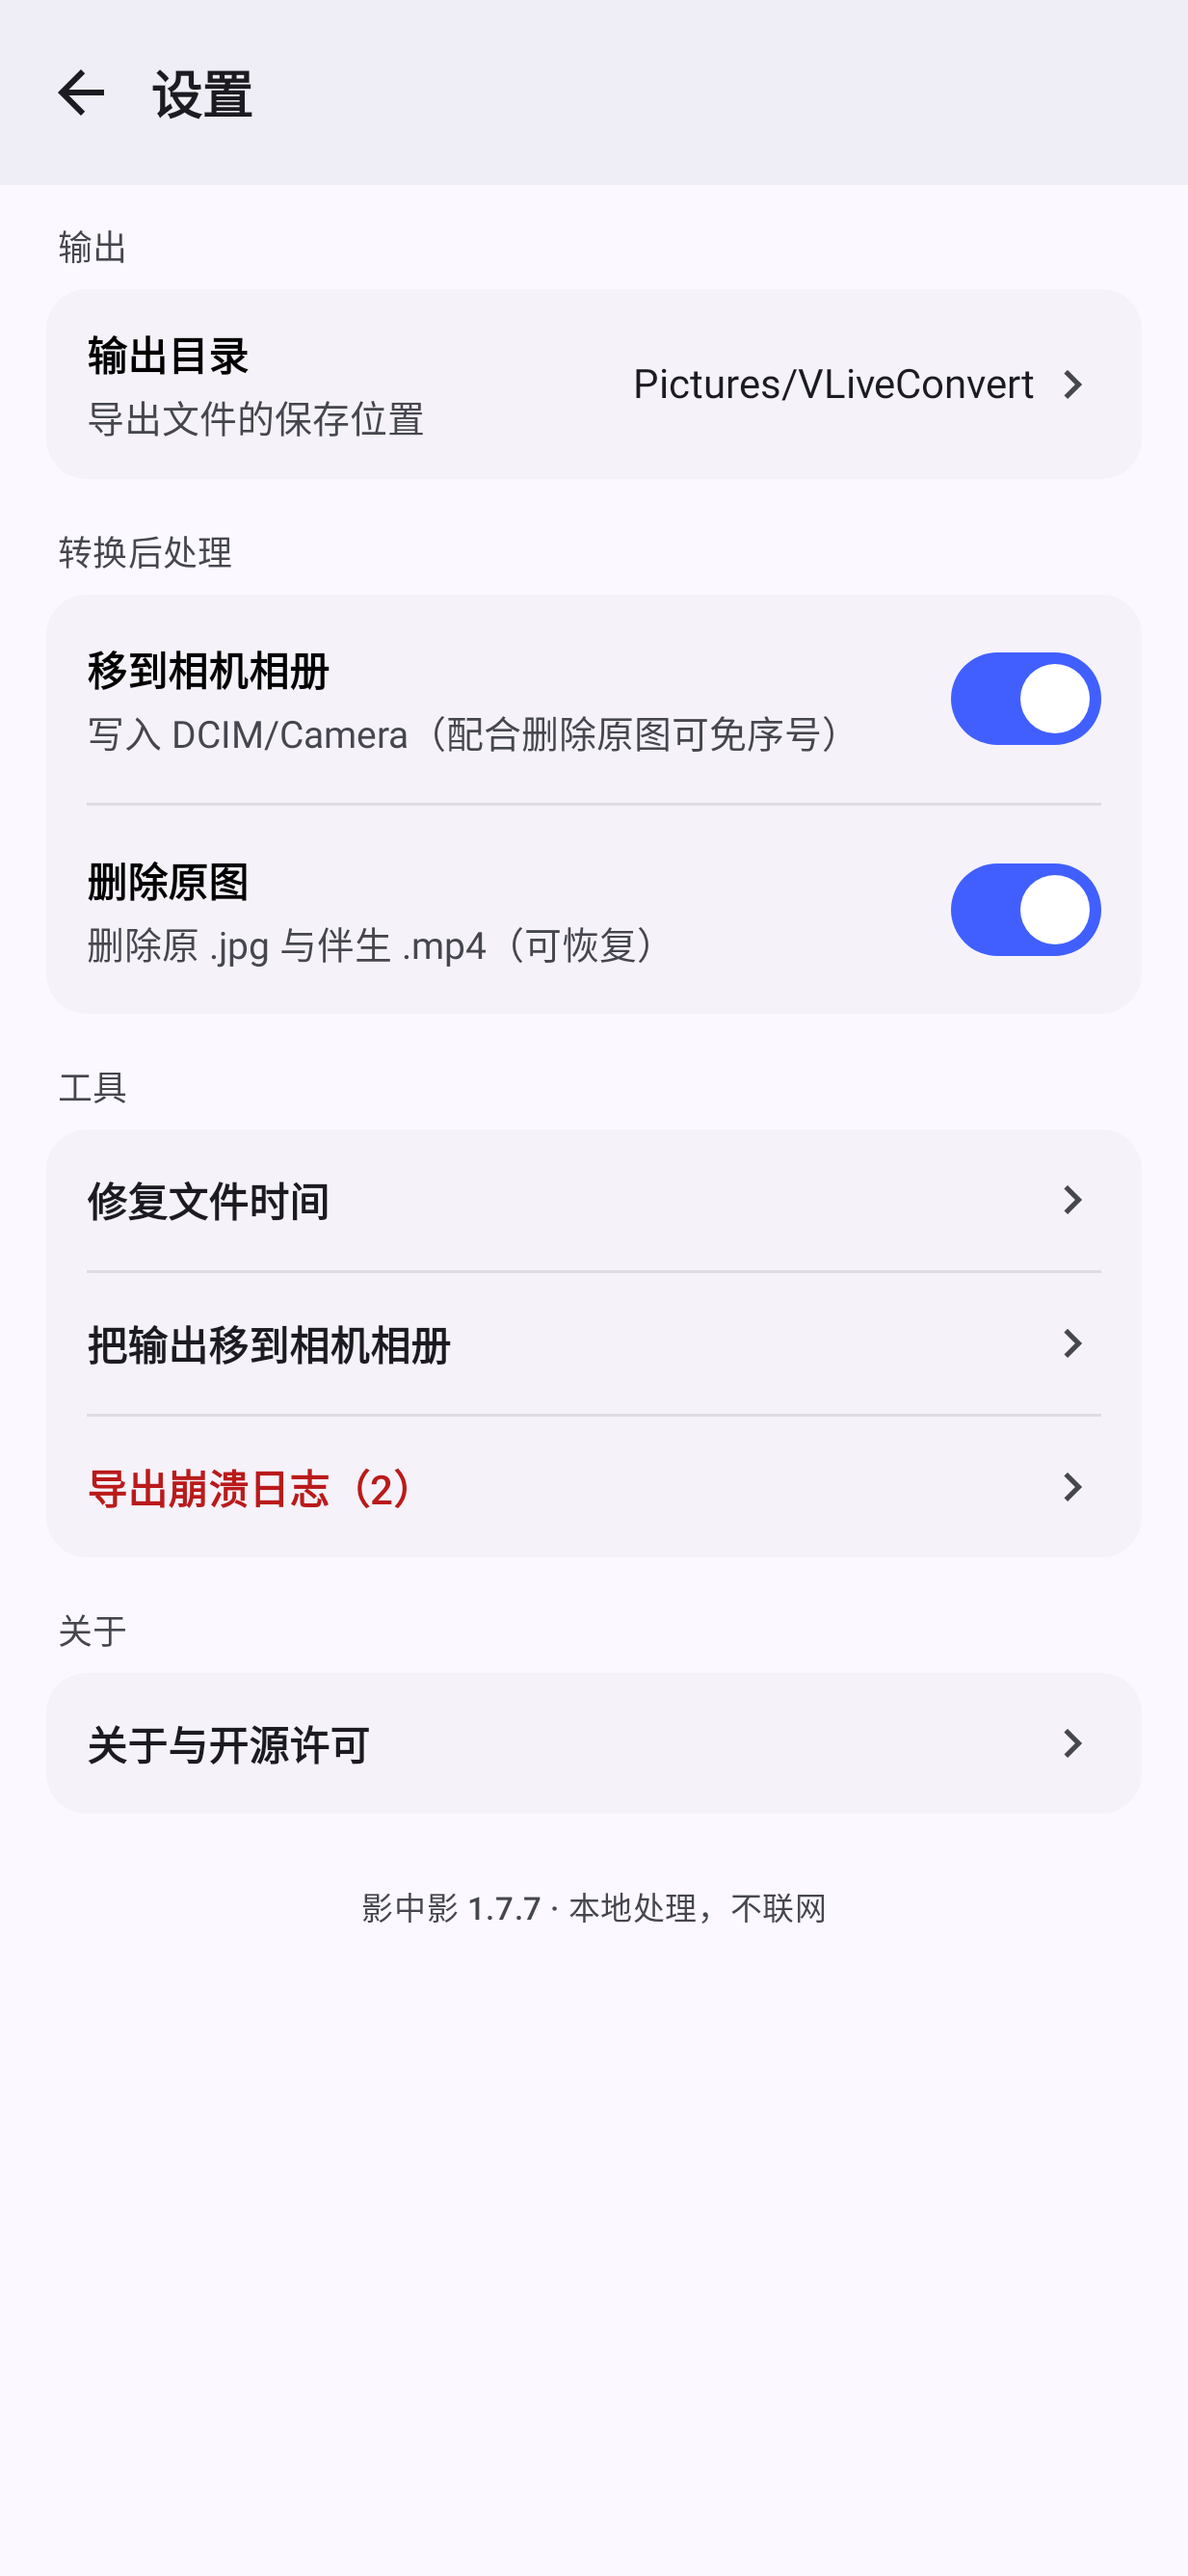
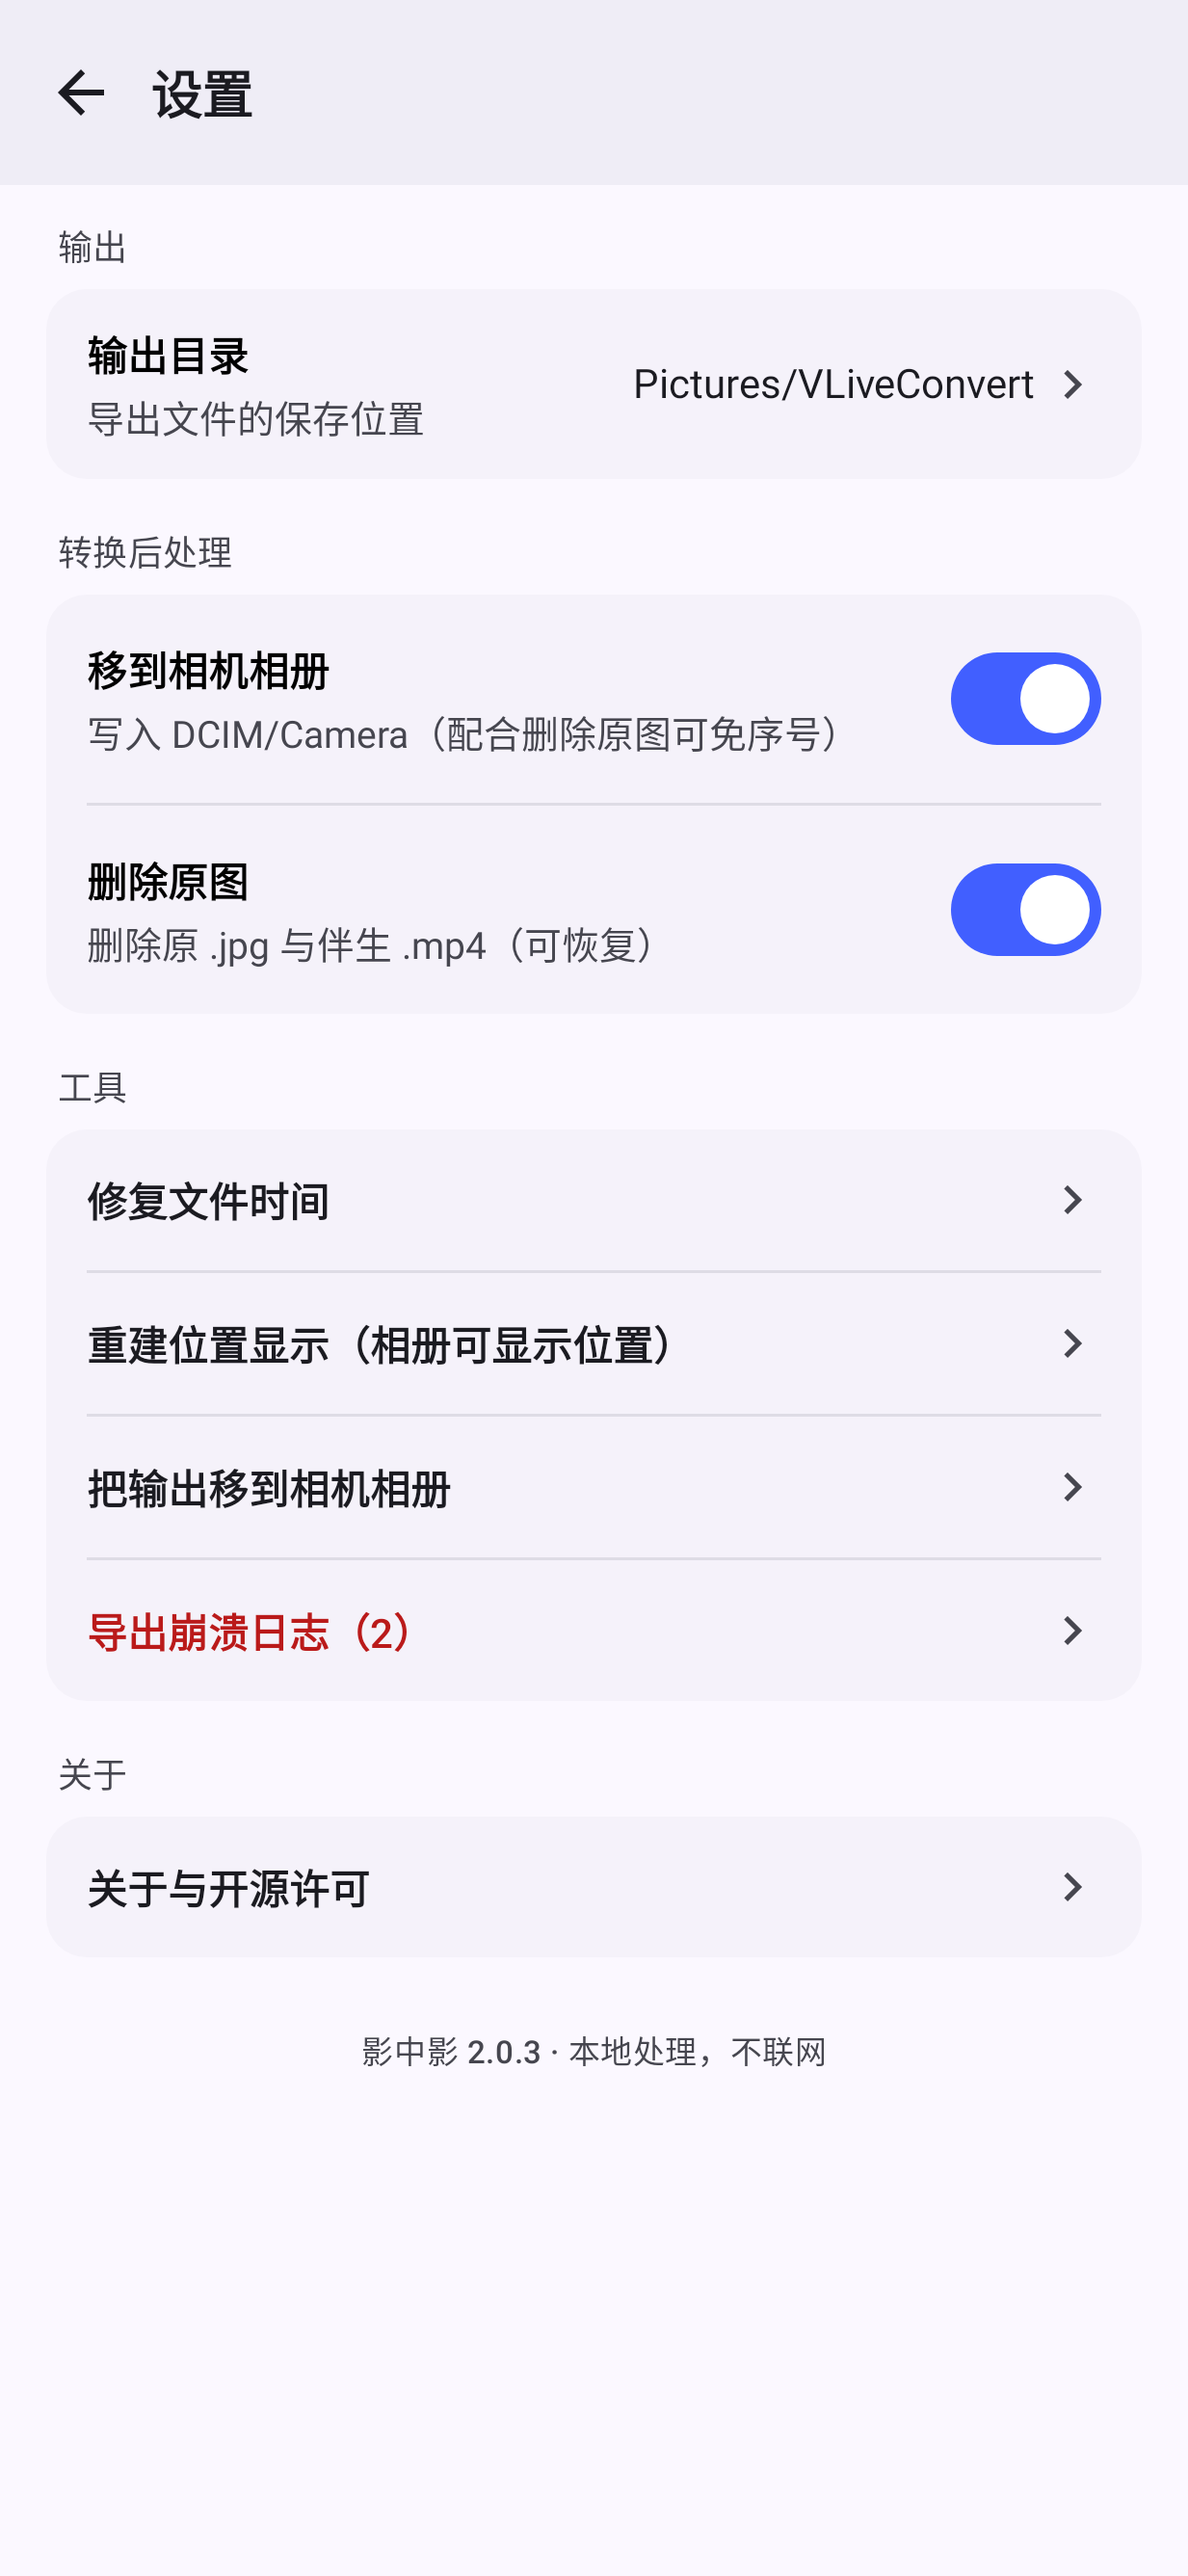
docs: 截图更新到当前版本 + README 标注 vivo X200 系列真机实测
- 五张 README 截图重新由 JVM 单测渲染（与 2.0.3 安装包同源）：
  设置页含「重建位置显示」入口、版本号不再硬编码（从构建产物读取，
  此前固定显示 1.7.7——陈旧夹具会让截图与真实版本脱节）
- README 机型说明：已在 vivo X200 系列（X200 Ultra，OriginOS 16 /
  Android 16）真机实测——转换/动图识别/位置显示/存量位置重建全链路

diff --git a/app/src/test/java/com/vliveconvert/app/UiScreenshotTest.kt b/app/src/test/java/com/vliveconvert/app/UiScreenshotTest.kt
@@ -35,6 +35,7 @@ import kotlinx.coroutines.CoroutineScope
 import kotlinx.coroutines.Dispatchers
 import org.junit.Assert.assertTrue
 import org.junit.Rule
+import androidx.test.core.app.ApplicationProvider
 import org.junit.Test
 import org.junit.runner.RunWith
 import org.robolectric.RobolectricTestRunner
@@ -181,7 +182,9 @@ class UiScreenshotTest {
         render {
             SettingsScreen(
                 appName = "影中影",
-                versionName = "1.7.7",
+                versionName = ApplicationProvider.getApplicationContext<VliveApp>()
+                    .packageManager.getPackageInfo("com.yutingou.yingzhongying", 0)
+                    .versionName ?: "",
                 outputRelPath = "Pictures/VLiveConvert",
                 moveToCamera = true,
                 deleteOriginal = true,
@@ -192,7 +195,7 @@ class UiScreenshotTest {
                 onToggleMoveToCamera = {},
                 onToggleDeleteOriginal = {},
                 onRepairLocationDisplay = {},
-        onOpenFixTime = {},
+                onOpenFixTime = {},
                 onMoveOutputsToCamera = {},
                 onExportCrashLogs = {},
                 onOpenAbout = {}
@@ -205,7 +208,9 @@ class UiScreenshotTest {
     @Test
     fun shotAbout() {
         render {
-            AboutScreen(appName = "影中影", versionName = "1.7.7", onBack = {})
+            AboutScreen(appName = "影中影", versionName = ApplicationProvider.getApplicationContext<VliveApp>()
+                    .packageManager.getPackageInfo("com.yutingou.yingzhongying", 0)
+                    .versionName ?: "", onBack = {})
         }
         shot("about")
     }

diff --git a/README.md b/README.md
@@ -66,8 +66,8 @@ VLiveConvert 把 vivo 双文件实况转成「单文件实况」——一个 .jp
 ## 已知说明
 
 - 需要 Android 14 及以上（OriginOS 5 / 6 机型）
-- 无损转换已在 X200 Ultra 的普通实况 + 人像实况真实样本上验证通过；
-- 转换后能否被 vivo 相册识别为实况，欢迎反馈「机型 + 系统版本 + 结果」
+- **已在 vivo X200 系列机型真机实测**（X200 Ultra，OriginOS 16 / Android 16）：普通实况 + 人像实况无损转换、相册动图识别、位置显示（v2.0.1 起）与历史照片位置重建（v2.0.2）全链路验证通过
+- 其它机型/系统版本欢迎反馈「机型 + 系统版本 + 结果」
 
 ## 转换原理（无损转换，不重编码）
 
